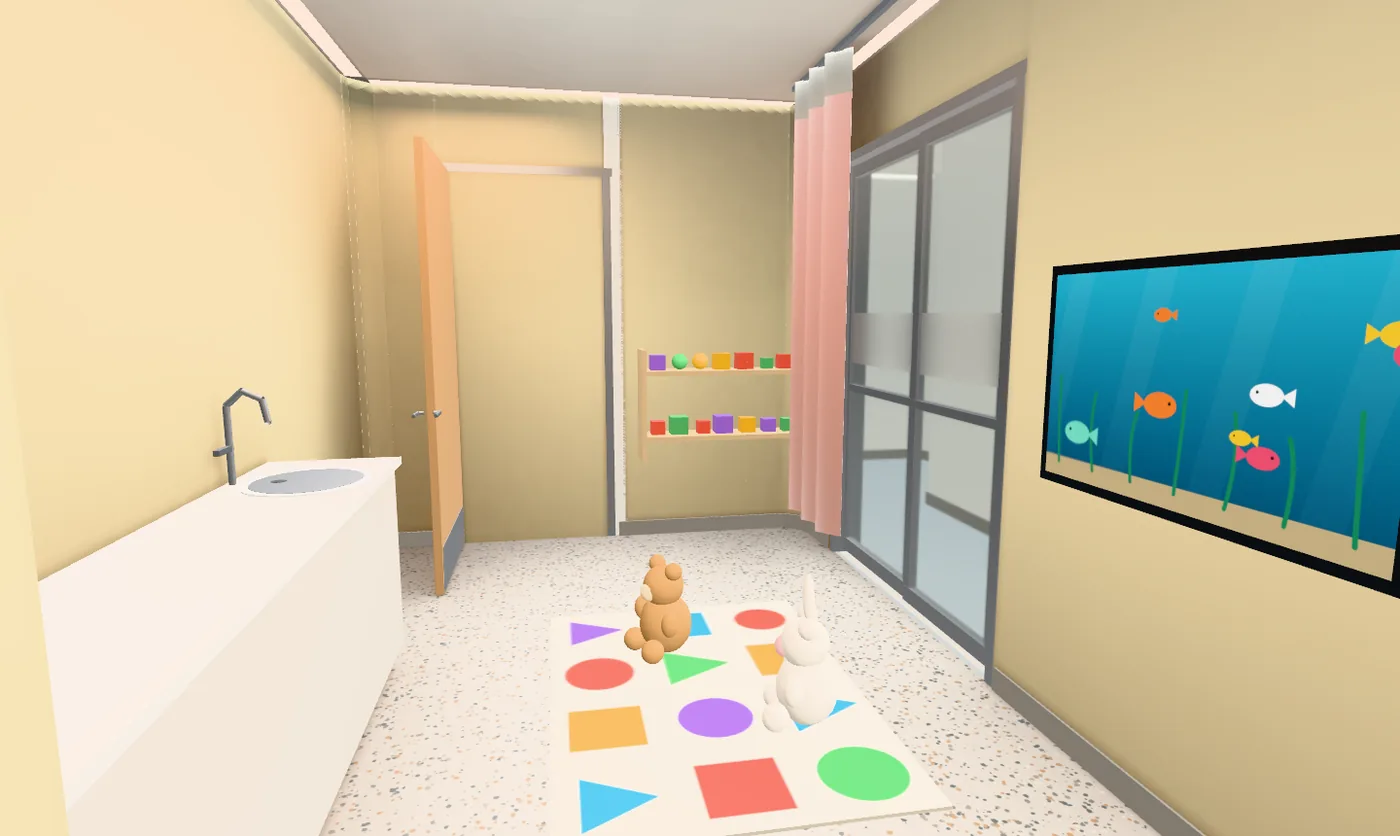
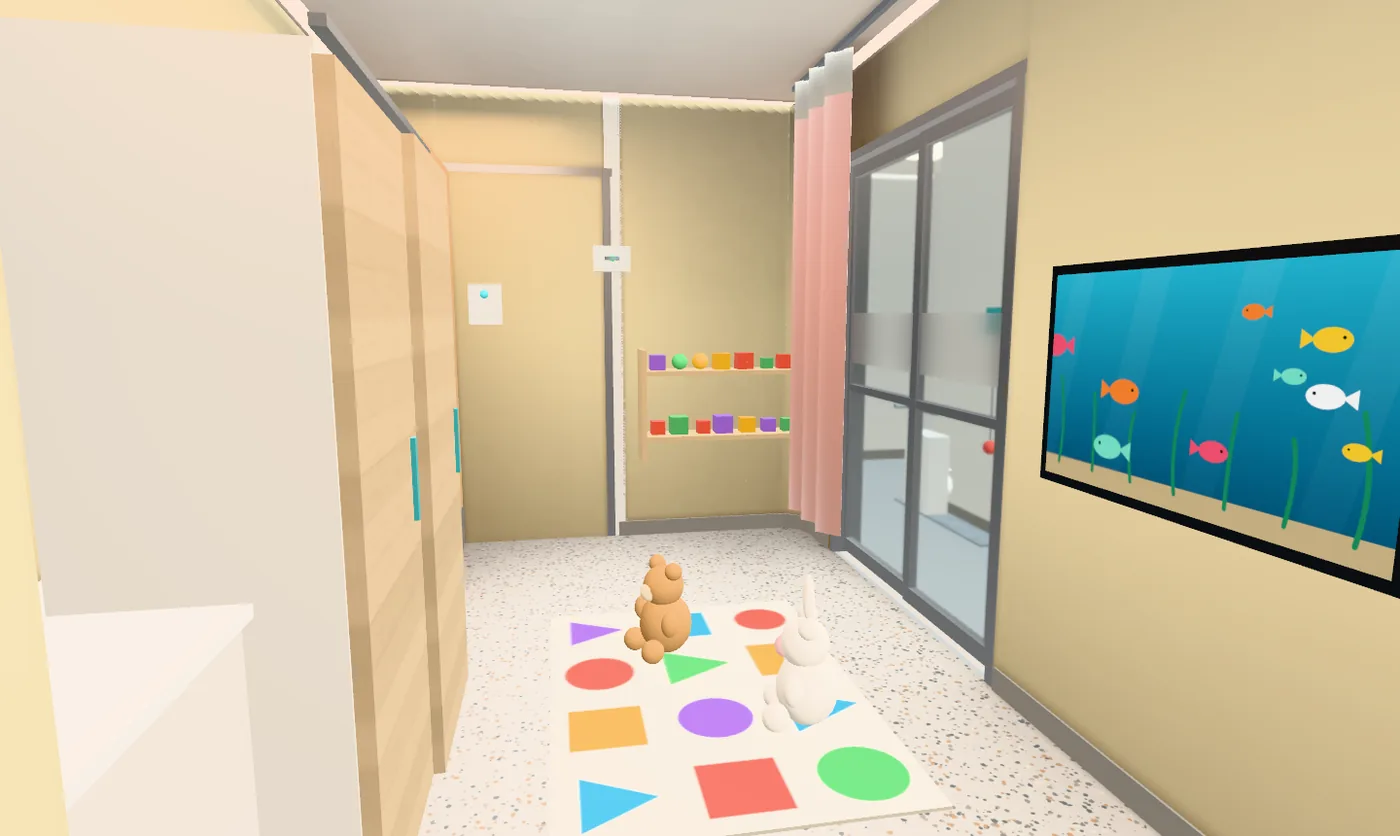
Rebuild the published page and its home page shots
configurator/main.js comes from its source again, without the garbled text
and byte-order mark. The home page's three share links are full length, and
its configurator shots show the page as it is now. Everything else a rebuild
regenerates is restored, because nothing in it really changed: the room
models differ only in vertex order, and the as-built scene not at all.

diff --git a/index.html b/index.html
@@ -114,15 +114,15 @@
     </div>
     <div class="plates">
       <figure class="plate full">
-        <a href="configurator/#c=100441510111000000100003000000"><img src="assets/img/config-desert-1440.webp" srcset="assets/img/config-desert-800.webp 800w, assets/img/config-desert-1400.webp 1400w, assets/img/config-desert-1440.webp 1440w" sizes="100vw" width="1440" height="860" alt="The room configurator showing an isolation room at night in the Desert Sanctuary theme: warm cove light around the ceiling, a mashrabiya feature wall and light timber floor, with a panel of options on the right." loading="lazy" decoding="async"></a>
+        <a href="configurator/#c=1004415101110000001000030000000000000"><img src="assets/img/config-desert-1440.webp" srcset="assets/img/config-desert-800.webp 800w, assets/img/config-desert-1400.webp 1400w, assets/img/config-desert-1440.webp 1440w" sizes="100vw" width="1440" height="860" alt="The room configurator showing an isolation room at night in the Desert Sanctuary theme: warm cove light around the ceiling, a mashrabiya feature wall and light timber floor, with a panel of options on the right." loading="lazy" decoding="async"></a>
         <figcaption>Desert Sanctuary at night, with its cove lighting. The panel lists every option.</figcaption>
       </figure>
       <figure class="plate half">
-        <a href="configurator/#c=101303421430000000001001111100"><img src="assets/img/config-play-1440.webp" srcset="assets/img/config-play-800.webp 800w, assets/img/config-play-1400.webp 1400w, assets/img/config-play-1440.webp 1440w" sizes="(min-width: 720px) 50vw, 100vw" width="1440" height="860" alt="The family zone of an isolation room in the Paediatric Play theme, with a printed play mat, soft toys, a toy shelf and a digital aquarium on the wall." loading="lazy" decoding="async"></a>
+        <a href="configurator/#c=1013034214300000000010011111000000000"><img src="assets/img/config-play-1440.webp" srcset="assets/img/config-play-800.webp 800w, assets/img/config-play-1400.webp 1400w, assets/img/config-play-1440.webp 1440w" sizes="(min-width: 720px) 50vw, 100vw" width="1440" height="860" alt="The family zone of an isolation room in the Paediatric Play theme, with a printed play mat, soft toys, a toy shelf and a digital aquarium on the wall." loading="lazy" decoding="async"></a>
         <figcaption>Paediatric Play: a play mat, toys and a digital aquarium in the family zone.</figcaption>
       </figure>
       <figure class="plate half">
-        <a href="configurator/#c=114302210101000000021013000010"><img src="assets/img/config-patio-1440.webp" srcset="assets/img/config-patio-800.webp 800w, assets/img/config-patio-1400.webp 1400w, assets/img/config-patio-1440.webp 1440w" sizes="(min-width: 720px) 50vw, 100vw" width="1440" height="860" alt="The view from the bed in a standard room in the Family Suite theme, turned toward a sliding door and a shaded balcony with palms in planters." loading="lazy" decoding="async"></a>
+        <a href="configurator/#c=1143022101010000000210130000100000000"><img src="assets/img/config-patio-1440.webp" srcset="assets/img/config-patio-800.webp 800w, assets/img/config-patio-1400.webp 1400w, assets/img/config-patio-1440.webp 1440w" sizes="(min-width: 720px) 50vw, 100vw" width="1440" height="860" alt="The view from the bed in a standard room in the Family Suite theme, turned toward a sliding door and a shaded balcony with palms in planters." loading="lazy" decoding="async"></a>
         <figcaption>Family Suite: what the patient sees with their head turned, toward the patio and palms.</figcaption>
       </figure>
     </div>

diff --git a/configurator/main.js b/configurator/main.js
@@ -1,4 +1,4 @@
-// Room configurator: a design proposal, built on the as-built model of one room.
+// Room configurator: a design proposal, built on the as-built model of one room.
 import * as THREE from "three";
 import { OrbitControls } from "three/addons/controls/OrbitControls.js";
 import { Stage, W2T } from "./stage.js";
@@ -16,7 +16,7 @@ addEventListener("error", e => window.__configErrors.push(String(e.message)));
 addEventListener("unhandledrejection", e => window.__configErrors.push(String(e.reason)));
 document.addEventListener("touchstart", () => {}, { passive: true }); // iOS Safari only applies :active once the page listens for touches
 
-const SITE = {"latitude_deg":24.45,"declination_deg":-2.5,"north_offset_deg":0};
+const SITE = {"latitude_deg": 24.45, "declination_deg": -2.5, "north_offset_deg": 0};
 const STOPS = { morning: 8.5, midday: 12, afternoon: 15.53, sunset: 17.75, night: 21 };
 const NIGHT_FROM = 18.4;
 const $ = id => document.getElementById(id);
@@ -128,8 +128,8 @@ async function setRoom(label, { keepView = true } = {}) {
   pressed($("rooms"), label);
   const status = $("roomStatus");
   const known = stage.rooms.has(label);
-  if (!known) status.textContent = "Loading the roomâ€¦";
-  const room = await stage.load(label, f => { status.textContent = `Loading the roomâ€¦ ${Math.round(f * 100)}%`; });
+  if (!known) status.textContent = "Loading the room…";
+  const room = await stage.load(label, f => { status.textContent = `Loading the room… ${Math.round(f * 100)}%`; });
   if (state.room !== label) return; // another room was chosen while this one loaded
   stage.show(room);
   rig.setRoom(room.meta);
@@ -359,7 +359,7 @@ function createProfileIdea(form) {
   const result = $("profileResult");
   result.replaceChildren(
     Object.assign(document.createElement("strong"), { textContent: "Editable room idea created" }),
-    document.createTextNode(`${extras.join(" Â· ")}. Your selected room stays ${state.room}. Sex and care-frequency answers did not change the draft. Other notes stay in this page and are not interpreted.`),
+    document.createTextNode(`${extras.join(" · ")}. Your selected room stays ${state.room}. Sex and care-frequency answers did not change the draft. Other notes stay in this page and are not interpreted.`),
   );
   result.hidden = false;
   syncUi();
@@ -374,7 +374,7 @@ $("profileForm").addEventListener("submit", e => {
 
 function setDemoReadout() {
   const temp = Number($("demoTemp").value), humidity = Number($("demoHumidity").value);
-  $("demoTempValue").textContent = `${temp} Â°C`;
+  $("demoTempValue").textContent = `${temp} °C`;
   $("demoHumidityValue").textContent = `${humidity}%`;
   const tint = temp < 22 ? "#63aecd" : temp > 25 ? "#df9762" : "#4aaeb2";
   for (const mesh of stage.current?.parts.addon_ventilation || []) {
@@ -712,4 +712,3 @@ async function boot() {
   }));
 }
 boot().catch(fail);
-

diff --git a/configurator/configurator.css b/configurator/configurator.css
@@ -44,7 +44,7 @@ body { background: var(--bg); color: var(--ink); font: 14px/1.45 var(--ui); }
 .back::before { content: "← "; }
 #panel h1 { margin: 0; font-size: 17px; font-weight: 600; text-wrap: balance; }
 .tag { margin: 0; padding: 2px 8px; border: 1px solid var(--med); border-radius: 999px; color: var(--med); font-size: 11px; font-weight: 600; white-space: nowrap; }
-#openProfile { grid-column: 1 / -1; justify-self: end; min-height: 34px; padding: 5px 11px; border: 1px solid var(--accent); border-radius: 999px; background: var(--hover); color: var(--accent); font-size: 12px; font-weight: 600; cursor: pointer; transition: transform var(--t-spring) var(--spring), background-color var(--t-enter) var(--ease-out); }
+#openProfile { grid-column: 1 / -1; justify-self: end; min-height: 36px; padding: 5px 11px; border: 1px solid var(--accent); border-radius: 999px; background: var(--hover); color: var(--accent); font-size: 12px; font-weight: 600; cursor: pointer; transition: transform var(--t-spring) var(--spring), background-color var(--t-enter) var(--ease-out); }
 #openProfile span { display: inline-block; margin-left: 4px; transition: transform var(--t-spring) var(--spring); }
 #openProfile:hover span { transform: translate(2px, -2px); }
 #panelBody { flex: 1; min-height: 0; overflow-y: auto; overscroll-behavior: contain; padding: 4px 16px 16px; }

diff --git a/spec/icu_spec.README.md b/spec/icu_spec.README.md
@@ -13,7 +13,7 @@ Units are metres and degrees. Blender works Z-up; the GLB is converted to Y-up o
 | `kit.*` | Patient-room equipment in the bed-head frame: origin at the bed-head centre on the floor, +y toward the bed foot (corridor), x across the bed. `head_clearance` is the gap from the facade to the bed head. `room_overrides` gives a room its own bed head (world coordinates), kit positions and feature wall; each entry applies to the room containing its `label_at` |
 | `lighting.*` | LED panel size, grid and wattage, sun elevation/azimuth, sky strength. `gap_fill` and `desk_fill` add assumed panels where the grid leaves floor dark or a desk chair dim. `site` is the configurator's sun path: latitude, the declination that puts the spec's sun on that path, and `north_offset_deg` |
 | `cameras.*` | `hero_room_label` picks the room used for the interior shots. `room_entry` and `bedside` use the bed-head frame; `iso_entry`, `iso_room` and `iso_window` are world coordinates in isolation room W1. Also the observation-camera settings, corridor and aerial eye/look points, and per-camera `exposure` |
-| `configurator.*` | The configurator's rooms, a design proposal: each room's `label_at`, its `cameras` (world `eye`, `look`, horizontal `hfov`), `anchors` for add-ons, `fixtures` (downlight points and slot lines for the lighting schemes), `via` points for moves through its door and, for W3, the side-on `layout`. W1's layout is its `kit.room_overrides` entry. `kit` changes a position for the configurator only |
+| `configurator.*` | The configurator's rooms, a design proposal: each room's `label_at`, its `cameras` (world `eye`, `look`, horizontal `hfov`), `anchors` for add-ons, `fixtures` (downlight points and slot lines for the lighting schemes), `via` points for moves through its door and, for W3, the side-on `layout`. W1's layout is its `kit.room_overrides` entry. `kit` changes a position for the configurator only. `walkable_add` adds polygons to the area the camera may stand in, for a view the walkable area otherwise goes around, like W1's bathroom |
 | `render.*` | Cycles samples, resolution, denoise, view transform |
 | `site.*` | The website's public URL, repo URL and publish folder (`dir`, the repo root) |
 
